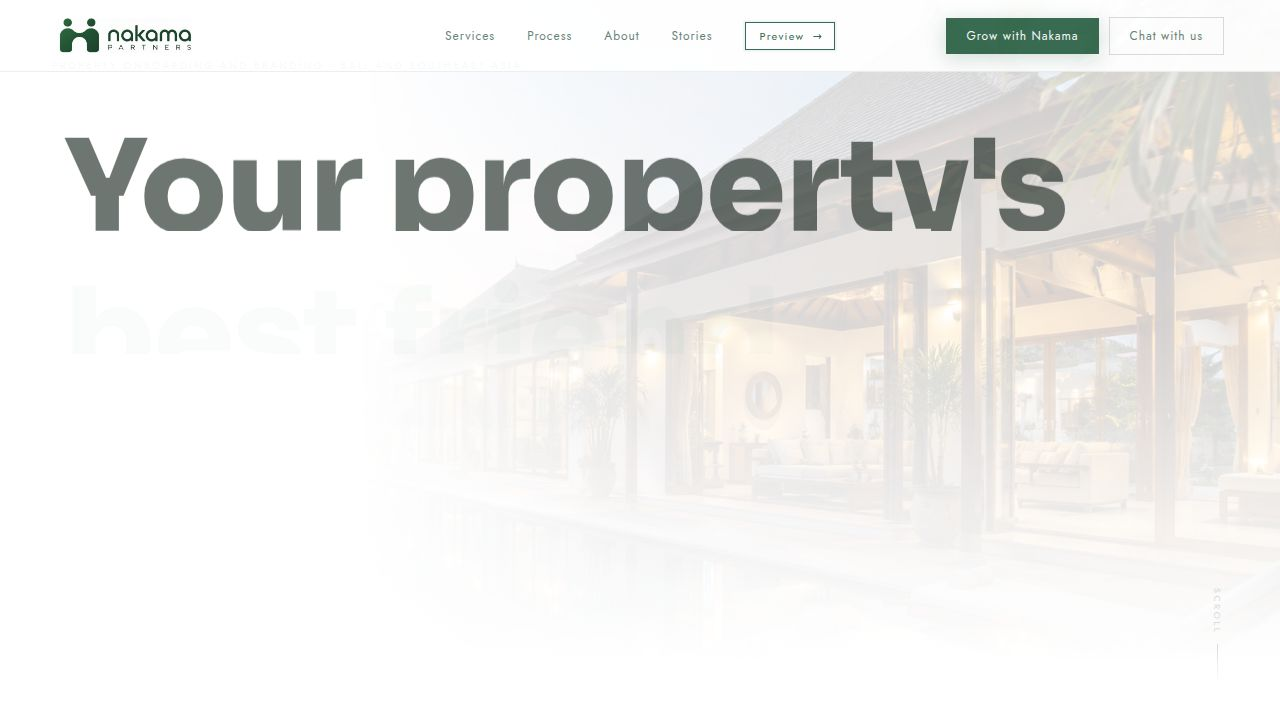
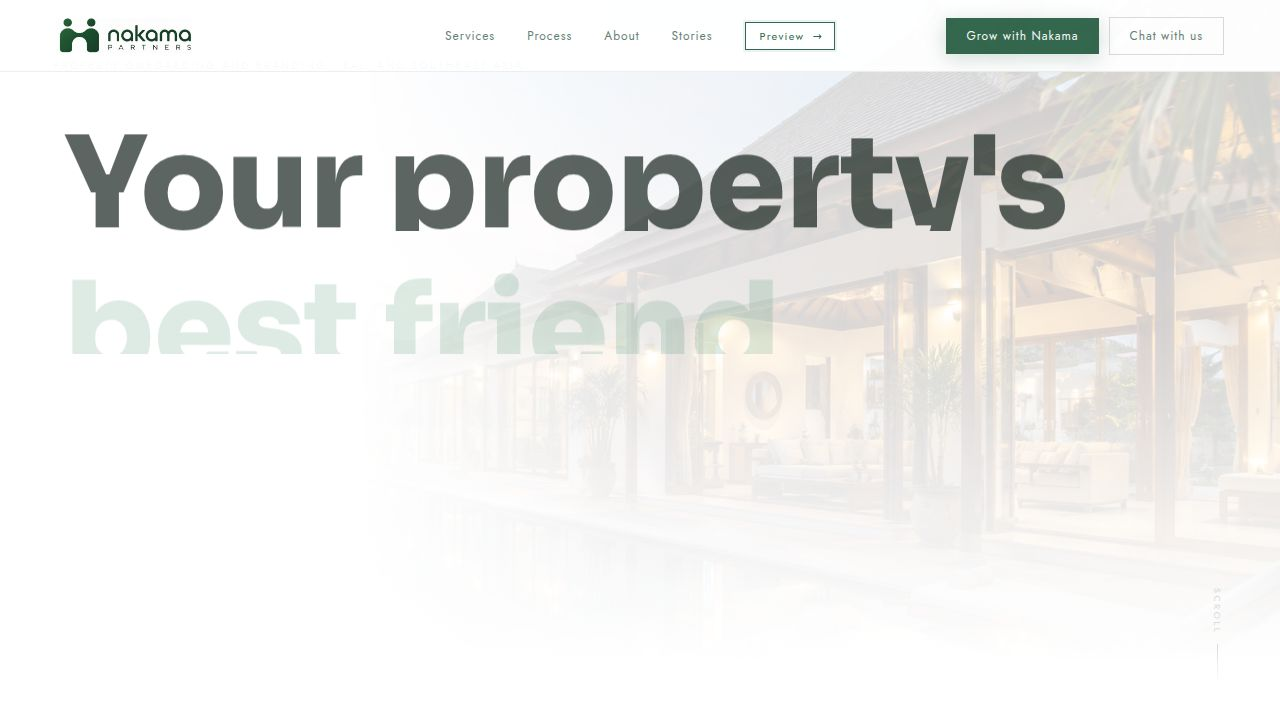
Adjust spacing and sizing for onboarding sections on desktop and mobile
Refactor CSS and JSX in LandingPage.tsx to adjust fixed heights for .onboard-left and .onboard-right elements, reducing desktop whitespace and mobile gaps.

Replit-Commit-Author: Agent
Replit-Commit-Session-Id: 98b7ea39-ad7c-4ad4-90f4-6852e7f9ae7b
Replit-Commit-Checkpoint-Type: full_checkpoint
Replit-Commit-Event-Id: 6dc20f61-93aa-467a-b12c-16c9eef71d7e
Replit-Commit-Screenshot-Url: https://storage.googleapis.com/screenshot-production-us-central1/117df4ec-91b3-44da-9cb5-9cb43385c526/98b7ea39-ad7c-4ad4-90f4-6852e7f9ae7b/xIl3QaI
Replit-Helium-Checkpoint-Created: true

diff --git a/artifacts/nakama-site/src/LandingPage.tsx b/artifacts/nakama-site/src/LandingPage.tsx
@@ -355,6 +355,8 @@ const CSS = `
 
     /* Onboarding: single column */
     .onboard-grid { grid-template-columns: 1fr !important; }
+    .onboard-left  { height: 180px !important; }
+    .onboard-right { height: 320px !important; }
 
     /* Section headers: single column */
     .sec-header { grid-template-columns: 1fr !important; margin-bottom: 36px !important; }
@@ -1717,7 +1719,7 @@ export function LandingPage() {
           <div className="onboard-grid" style={{ display: 'grid', gridTemplateColumns: '1fr 1.15fr', gap: 56, alignItems: 'start' }}>
 
             {/* Left: text — fixed height on all devices, content cross-fades in absolute overlay */}
-            <div className="onboard-left" style={{ height: 440, overflow: 'hidden', position: 'relative' }}>
+            <div className="onboard-left" style={{ height: 320, overflow: 'hidden', position: 'relative' }}>
               {/* Dot nav always visible at top */}
               <div style={{ display: 'flex', gap: 8, marginBottom: 28 }}>
                 {ONBOARD.map((_, i) => (
@@ -1756,7 +1758,7 @@ export function LandingPage() {
             </div>
 
             {/* Right: visual card — kept dark as a "device" mockup */}
-            <div style={{ border: `1px solid rgba(0,0,0,0.10)`, background: '#0D1710', overflow: 'hidden', position: 'relative', height: 440 }}>
+            <div className="onboard-right" style={{ border: `1px solid rgba(0,0,0,0.10)`, background: '#0D1710', overflow: 'hidden', position: 'relative', height: 320 }}>
               {/* Progress bar */}
               <div style={{ height: 2, background: 'rgba(255,255,255,0.05)', position: 'relative', flexShrink: 0 }}>
                 <div style={{